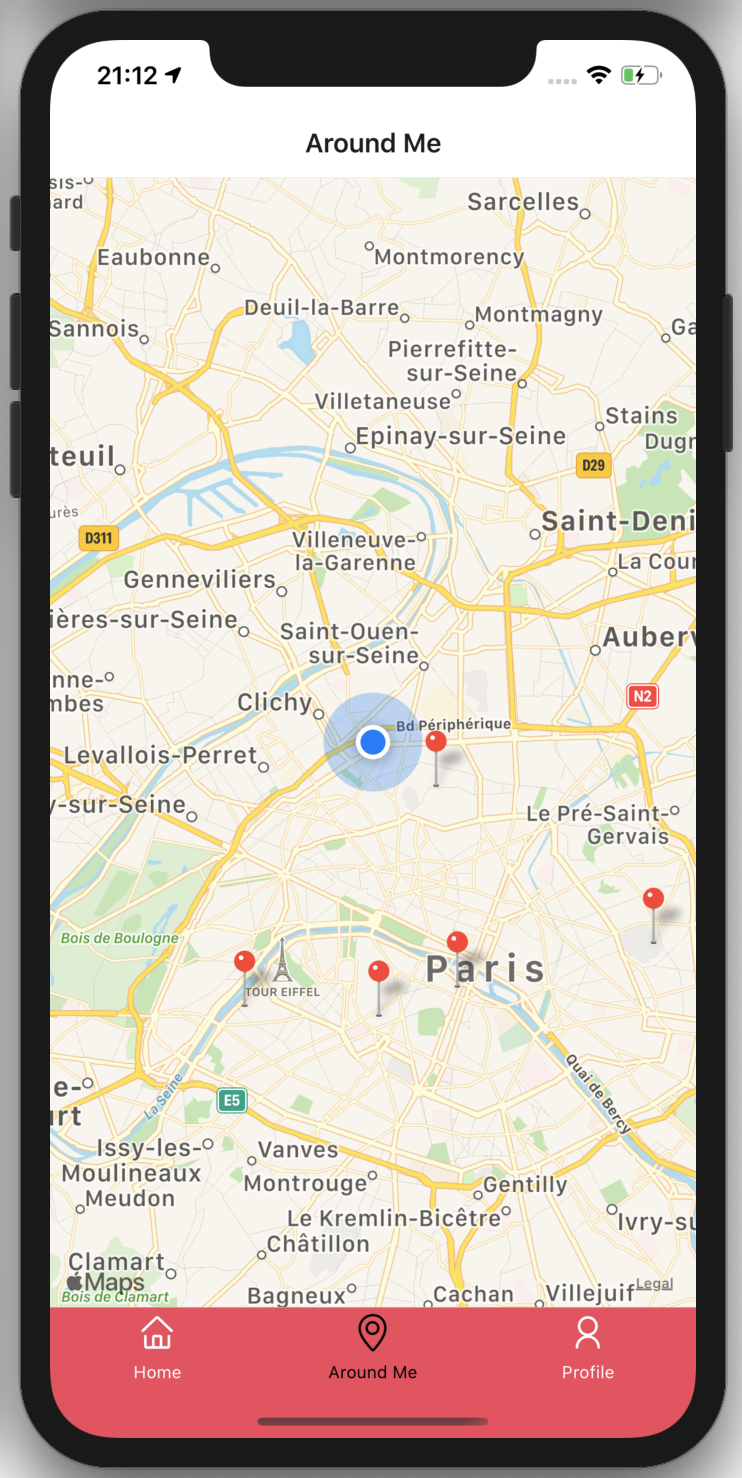
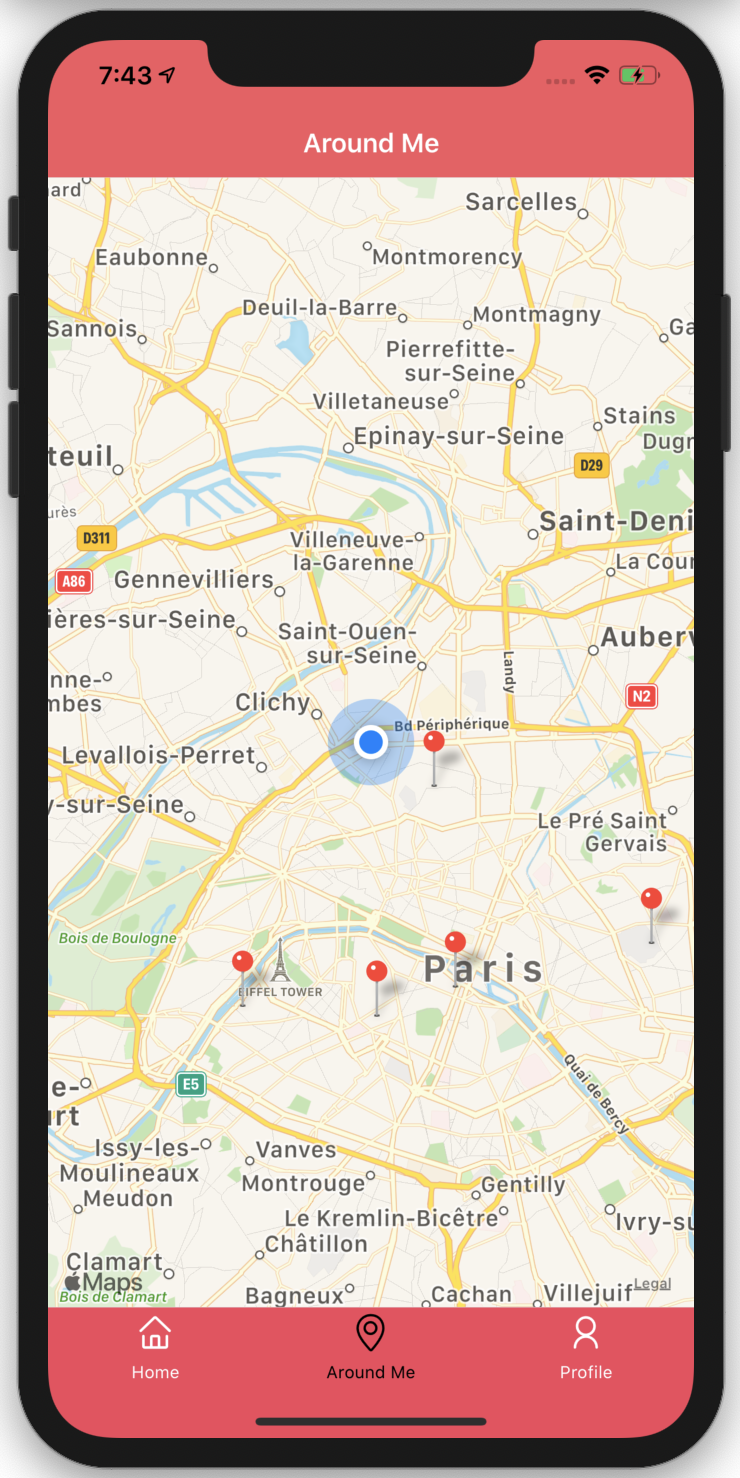
headerstyle (screen aroundme)

diff --git a/App.js b/App.js
@@ -85,7 +85,7 @@ const App = () => {
               <Tab.Screen name="Around Me" options={{ tabBarLabel: "Around Me", tabBarIcon: ({ color, size }) => (<SimpleLineIcons name="location-pin" size={size} color={color} />)}}>
                 {() => (
                   <Stack.Navigator>
-                    <Stack.Screen name="Around Me" options={{ title: "Around Me", tabBarLabel: "Around Me" }}>
+                    <Stack.Screen name="Around Me" options={{ title: "Around Me", headerStyle: { backgroundColor: "#F35960" }, headerTitleStyle: { color: "white" }, headerTitleAlign: "center" }}>
                     {() => <AroundMeScreen />}
                     </Stack.Screen>
                   </Stack.Navigator>
